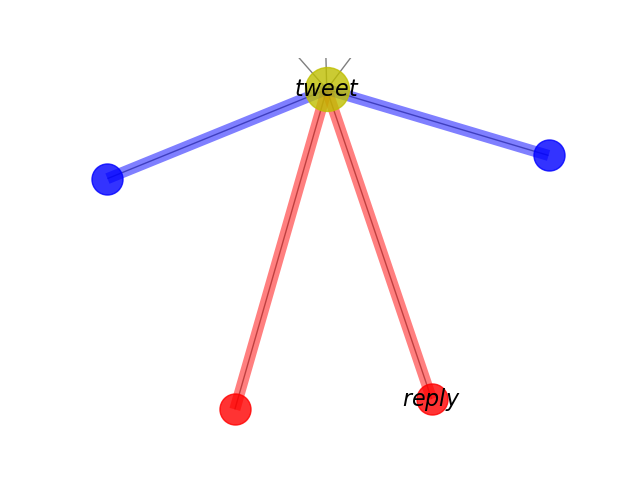
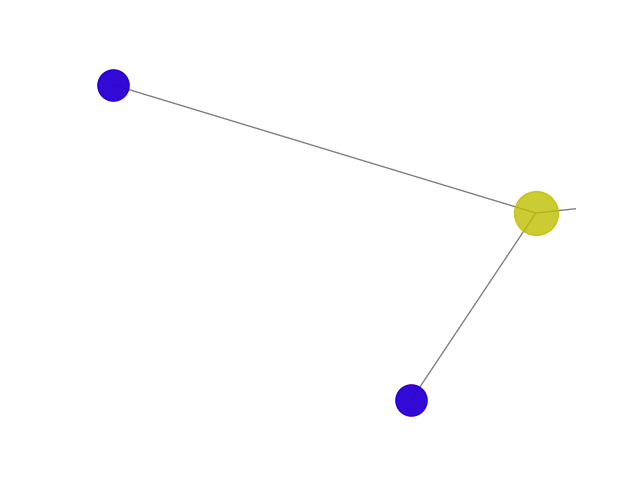
network

diff --git a/source/templates/index.html b/source/templates/index.html
@@ -19,7 +19,7 @@
 </div>
 
 <div class="container" id="mainSearch">
-<form method="POST" action="/conversation">
+<form method="POST" action="/network">
     <!-- main search with input field and submit button -->
     <div class="form-group">
         <label for="mainSearch">Search Tweet</label>

diff --git a/source/app.py b/source/app.py
@@ -1,6 +1,5 @@
 from flask import Flask, request, render_template, flash, redirect, url_for
 from flask_bootstrap import Bootstrap
-from vi_twitter.search import get_conversation
 import vi_twitter.search as search
 import matplotlib.pyplot as plt
 import networkx as nx
@@ -38,23 +37,34 @@ def conversation():
 
 @app.route('/network', methods=['GET', 'POST'])
 def network():
-    requestedTweetID = request.form.get('tweetID')
-    language = request.form.get('langopt')
-    G = nx.star_graph(7)
-    pos = nx.spring_layout(G)
-    colors = range(7)
-    nx.draw_networkx_nodes(G, pos,nodelist=search.get_conversation(requestedTweetID, language, max_replies= 200),node_color='y',node_size=1000,alpha=0.8)
-    nx.draw_networkx_nodes(G, pos,nodelist=search.get_conversation(requestedTweetID, language, max_replies= 200),node_color='r',node_size=500,alpha=0.8)
-    nx.draw_networkx_nodes(G, pos,nodelist=search.get_conversation(requestedTweetID, language, max_replies= 200),node_color='b',node_size=500,alpha=0.8)
-    # edges 
-    nx.draw_networkx_edges(G, pos, width=1.0, alpha=0.5)
-    nx.draw_networkx_edges(G, pos,edgelist=[('1.tweet','2.replies')],width=8, alpha=0.5, edge_color='r')
-    nx.draw_networkx_edges(G, pos,edgelist=[('1.tweet','3.quote_tweets')],width=8, alpha=0.5, edge_color='b')
-    labels = {}
-    nx.draw_networkx_labels(G, pos, labels, font_size=16)
-    plt.axis('off')
-    plt.savefig('network.png')
-    return render_template('network.html', name = plt.show(), url ='network.png')   
+    if request.method == 'POST':
+        twitterSession = request.form.get('tweetID') 
+        requestedTweetID= request.form.get('tweetID')
+        language = request.form.get('langopt')
+        num = len(search.get_conversation(requestedTweetID, language, max_replies=200))
+        G = nx.star_graph(num)
+        pos = nx.spring_layout(G)
+        colors = range(num)
+        nx.draw_networkx_nodes(G, pos,nodelist= [1],node_color='y',node_size=1000,alpha=0.8)
+        list_of_replies = []
+        for i in search.get_conversation(requestedTweetID, language, max_replies=200):
+            list_of_replies.append(i)  
+            nx.draw_networkx_nodes(G, pos,nodelist= int(list_of_replies[i]), node_color='r',node_size=500,alpha=0.8)
+        list_of_quotetweets = []
+        for j in search.get_quote_tweets(twitterSession, requestedTweetID, language):
+            list_of_quotetweets.append(j)
+            nx.draw_networkx_nodes(G, pos,nodelist= int(list_of_quotetweets[i]),node_color='b',node_size=500,alpha=0.8)
+        # edges 
+        nx.draw_networkx_edges(G, pos, width=1.0, alpha=0.5)
+        connection1 = zip(requestedTweetID,list_of_replies)
+        connection2 = zip(requestedTweetID, list_of_quotetweets)
+        nx.draw_networkx_edges(G, pos,edgelist=connection1,width=8, alpha=0.5, edge_color='r')
+        nx.draw_networkx_edges(G, pos,edgelist= connection2,width=8, alpha=0.5, edge_color='b')
+        labels = {}
+        nx.draw_networkx_labels(G, pos, labels, font_size=16)
+        plt.axis('off')
+        plt.savefig('network.png')
+        return render_template('network.html', name = plt.show(), url ='network.png')   
 
 
 if __name__ == "__main__":
